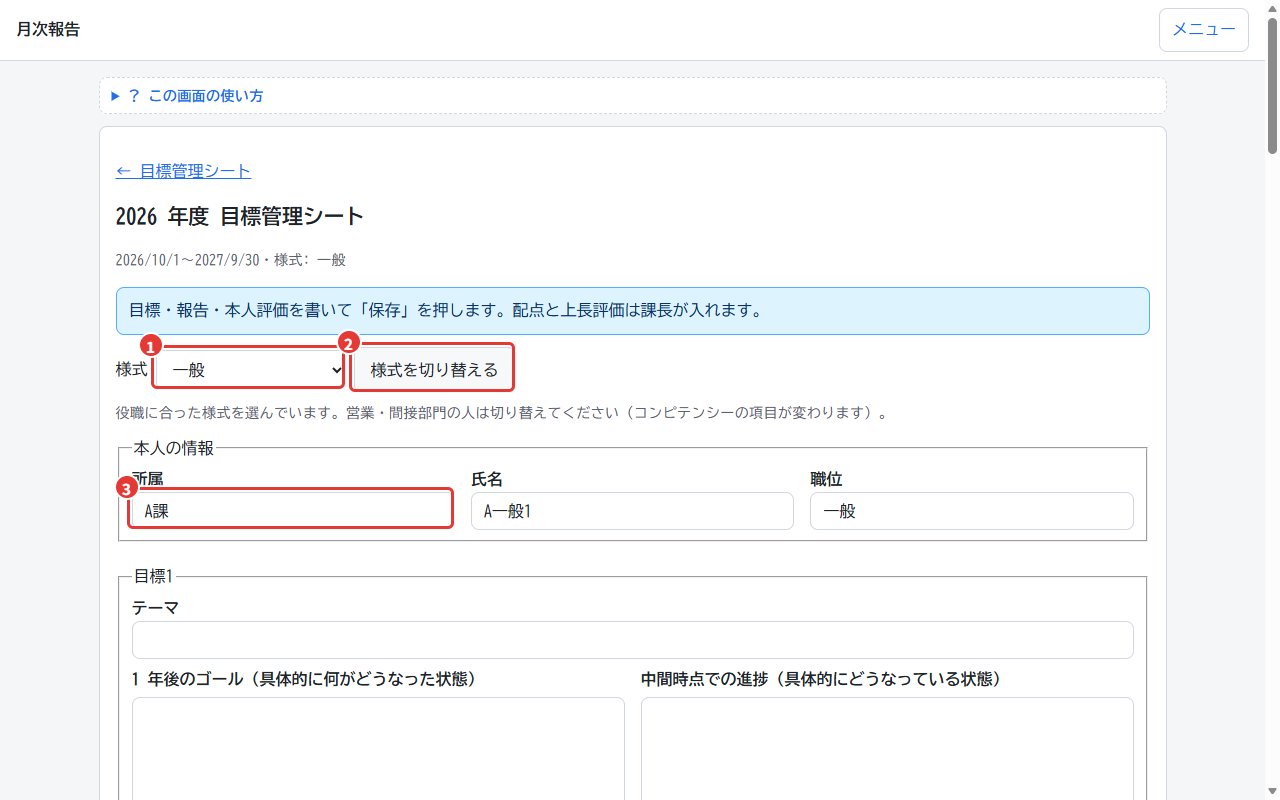
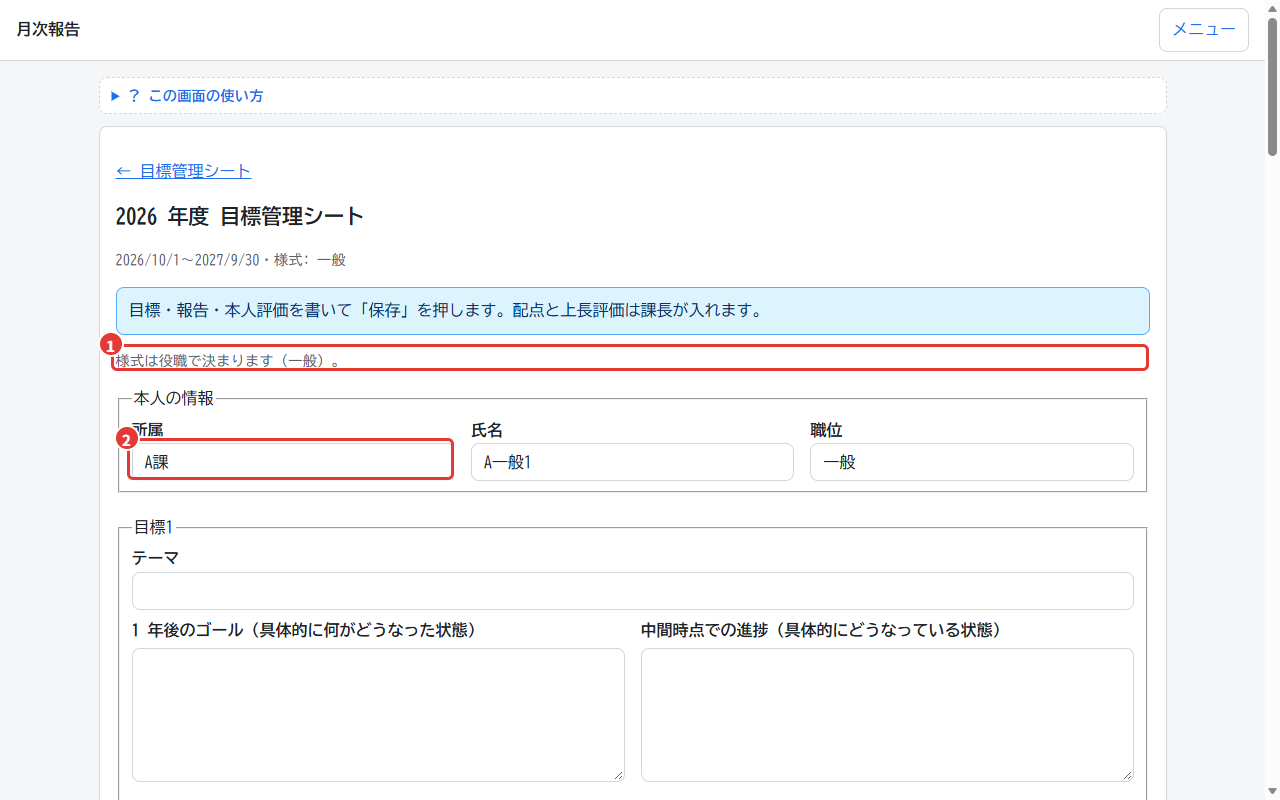
目標管理の様式を役職で決めるようにした（一般・主任・課長代理は選べない。課長・部長は課長以上・営業・間接部門から選ぶ）

Changed region(s): [[0.0625, 0.4062, 0.9062, 0.875], [0.5, 0.75, 0.7812, 0.875]]

diff --git a/app/lib/messages_catalog.php b/app/lib/messages_catalog.php
@@ -318,12 +318,13 @@ return [
     '総務の様式に、保存した内容を入れたファイルです。' => ['screens' => ['G-26 通勤定期代の精算']],
     '通勤定期代の精算書を作って、総務の様式の Excel（.xlsx）で受け取ります。精算書を見られるのは自分だけです。月次報告とは別の機能で、承認の流れはありません。' => ['screens' => ['G-26 通勤定期代の精算']],
     'このシートは読めません（暗号の鍵が変わった可能性があります）。システム管理者に連絡してください。' => ['screens' => ['G-27 目標管理']],
+    'この様式は選べません（様式は役職で決まります）。' => ['screens' => ['G-27 目標管理']],
     'コメント' => ['screens' => ['G-27 目標管理']],
     'コメントはまだありません。' => ['screens' => ['G-27 目標管理']],
     '個別の面談で話したこと（直すこと・確かめたこと）を、課長・課長代理が残します。本人も読めます。あとから直したり消したりできません。' => ['screens' => ['G-27 目標管理']],
-    '役職に合った様式を選んでいます。営業・間接部門の人は切り替えてください（コンピテンシーの項目が変わります）。' => ['screens' => ['G-27 目標管理']],
     '本人・課長・課長代理が書けます。書いたコメントは、あとから直したり消したりできません（監査のため）。直したいことは、新しく書いてください。' => ['screens' => ['G-27 目標管理']],
     '様式の欄: {lines} 行・1 行 {width} 字ほど' => ['screens' => ['G-27 目標管理']],
+    '様式は役職で決まります（{kind}）。' => ['screens' => ['G-27 目標管理']],
     '目標・報告・本人評価を書いて「保存」を押します。配点と上長評価は課長が入れます。' => ['screens' => ['G-27 目標管理']],
     '目標管理シートのファイルは PC で受け取ってください。' => ['screens' => ['G-27 目標管理']],
     '目標管理シートはまだありません。' => ['screens' => ['G-27 目標管理']],
@@ -333,6 +334,7 @@ return [
     '評価を保存しました' => ['screens' => ['G-27 目標管理']],
     '課長として、配点・上長評価・総合評価を入れて「評価を保存」を押します。本人が書いた欄は直せません（直してほしいことは、コメントか面談で伝えてください）。' => ['screens' => ['G-27 目標管理']],
     '課長代理として、見てコメントできます（評価は課長が入れます）。面談をしたら、記録を残してください。' => ['screens' => ['G-27 目標管理']],
+    '課長以上の様式を選んでいます。営業・間接部門の人は切り替えてください（コンピテンシーの項目が変わります）。' => ['screens' => ['G-27 目標管理']],
     '達成率（実績 ÷ 計画）と評点（120% を超える：5／110% 以上：4／100% 以上：3／95% 以上：2／85% 以上：1／それ未満：0）は、様式の式で計算します。' => ['screens' => ['G-27 目標管理']],
     '面談の日を正しく入れてください（今日より先の日は入れられません）' => ['screens' => ['G-27 目標管理']],
     '面談の記録' => ['screens' => ['G-27 目標管理']],

diff --git a/tools/test/smoke_goals.py b/tools/test/smoke_goals.py
@@ -95,6 +95,12 @@ def main():
     check("一般の人には、一般の様式を選んでいる（コンピテンシー 16 項目）", 'name="kind" value="general"' in page_html
           and len(re.findall(r'name="competency_self\[\d+\]"', page_html)) == GENERAL_ITEM_COUNT, status_code)
     check("本人の画面では、配点・上長評価は入れられない", 'name="goals[0][difficulty]"' not in page_html and 'name="overall_boss"' not in page_html)
+    check("一般の人には様式を選ぶ欄を出さない（様式は役職で決まる）", 'id="goal-kind"' not in page_html and "様式は役職で決まります" in page_html)
+    _, _, other_kind_html = owner.get("/goals/edit.php?year=%d&kind=manager" % fiscal_year)
+    check("一般の人が URL で別の様式を指定しても、一般の様式のまま", 'name="kind" value="general"' in other_kind_html)
+    forged_status, _, _ = owner.post("/goals/edit.php?year=%d" % fiscal_year, owner_form(other_kind_html, kind="manager"))
+    check("一般の人が別の様式を送っても受け付けない（403）", forged_status == 403, forged_status)
+    _, _, page_html = owner.get("/goals/edit.php?year=%d" % fiscal_year)
     status_code, _, error_html = owner.post("/goals/edit.php?year=%d" % fiscal_year, owner_form(page_html, **{"goals[0][goal]": "あ" * 300}))
     check("様式の欄に収まらない長さは保存しない（行の数を出す）", status_code == 200 and "長すぎます" in error_html and "7 行" in error_html, status_code)
     status_code, location, _ = owner.post("/goals/edit.php?year=%d" % fiscal_year, owner_form(
@@ -175,6 +181,8 @@ def main():
     other_status, _, _ = client_of("leader_a").get("/goals/edit.php?id=%d" % deputy_sheet_id)
     check("課長代理のシートは課長が見られる（主任は見られない）", deputy_sheet_id > 0 and view_status == 200 and other_status == 404, (deputy_sheet_id, view_status, other_status))
     _, _, page_html = client_of("kacho_a").get("/goals/edit.php?year=%d&kind=manager" % fiscal_year)
+    check("課長は、課長以上・営業・間接部門から様式を選べる（一般・リーダーは選べない）", 'id="goal-kind"' in page_html
+          and all('value="%s"' % kind_code in page_html for kind_code in ("manager", "sales", "indirect")) and '<option value="general"' not in page_html)
     status_code, location, _ = client_of("kacho_a").post("/goals/edit.php?year=%d&kind=manager" % fiscal_year, dict(owner_form(page_html), full_name="A課長", position="課長"))
     manager_sheet_id = int(re.search(r"id=(\d+)", location).group(1)) if "id=" in location else 0
     deputy_view_status, _, _ = client_of("dairi_a").get("/goals/edit.php?id=%d" % manager_sheet_id)

diff --git a/app/views/goal_edit.php b/app/views/goal_edit.php
@@ -59,16 +59,19 @@ $roleNoteByViewerRole = [
   <?php if (!$isNewSheet && !$isMobile): ?>
     <p><a class="button" href="<?= h(url('/goals/download.php?id=' . $sheet['id'])) ?>">会社の様式の Excel を受け取る（.xlsx）</a></p>
   <?php endif; ?>
-  <?php if ($isNewSheet): ?>
+  <?php $selectableKindList = goal_selectable_kinds($user); ?>
+  <?php if ($isNewSheet && count($selectableKindList) > 1): ?>
     <form method="get" action="<?= h(url('/goals/edit.php')) ?>" class="filters">
       <input type="hidden" name="year" value="<?= (int) $sheet['fiscal_year'] ?>">
       <label for="goal-kind">様式</label>
       <select id="goal-kind" name="kind">
-        <?php foreach (GOAL_TEMPLATE_KINDS as $kindCode => $kindItem): ?><option value="<?= h($kindCode) ?>" <?= $kindCode === $sheet['kind'] ? 'selected' : '' ?>><?= h($kindItem['label']) ?></option><?php endforeach; ?>
+        <?php foreach ($selectableKindList as $kindCode): ?><option value="<?= h($kindCode) ?>" <?= $kindCode === $sheet['kind'] ? 'selected' : '' ?>><?= h(GOAL_TEMPLATE_KINDS[$kindCode]['label']) ?></option><?php endforeach; ?>
       </select>
       <button type="submit">様式を切り替える</button>
-      <span class="note"><?= h(msg('役職に合った様式を選んでいます。営業・間接部門の人は切り替えてください（コンピテンシーの項目が変わります）。')) ?></span>
+      <span class="note"><?= h(msg('課長以上の様式を選んでいます。営業・間接部門の人は切り替えてください（コンピテンシーの項目が変わります）。')) ?></span>
     </form>
+  <?php elseif ($isNewSheet): ?>
+    <p class="note"><?= h(msg('様式は役職で決まります（{kind}）。', ['kind' => GOAL_TEMPLATE_KINDS[$sheet['kind']]['label']])) ?></p>
   <?php endif; ?>
 
   <form method="post" action="<?= h(url($sheetPath)) ?>" class="form goal-form"<?= ($isOwner || $isBoss) ? ' data-leave-warn="1"' : '' ?>>

diff --git a/app/pages/goal_edit.php b/app/pages/goal_edit.php
@@ -34,7 +34,7 @@ if (isset($_GET['id']) || isset($_POST['sheet_id'])) {
         error_page(404);
     }
     $requestedKind = (string) ($_POST['kind'] ?? ($_GET['kind'] ?? goal_default_kind($user)));
-    $kindCode = isset(GOAL_TEMPLATE_KINDS[$requestedKind]) ? $requestedKind : goal_default_kind($user);
+    $kindCode = in_array($requestedKind, goal_selectable_kinds($user), true) ? $requestedKind : goal_default_kind($user);   // 役職で選べない様式は使わない
     $sheet = ['id' => null, 'user_id' => $userId, 'fiscal_year' => $fiscalYear, 'kind' => $kindCode, 'created_at' => '', 'updated_at' => '',
               'data' => goal_new_sheet_data($user, $kindCode), 'unreadable' => false];
     $viewerRole = 'owner';
@@ -56,7 +56,10 @@ if (is_post()) {
         $kindCode = $sheet['kind'];
         if ($action === 'save_owner' && $sheet['id'] === null) {
             $postedKind = post_str('kind');
-            $kindCode = isset(GOAL_TEMPLATE_KINDS[$postedKind]) ? $postedKind : $kindCode;
+            if (!in_array($postedKind, goal_selectable_kinds($user), true)) {
+                error_page(403, msg('この様式は選べません（様式は役職で決まります）。'));
+            }
+            $kindCode = $postedKind;
             $postedData = goal_normalize($postedData, $kindCode);
         }
         $errorTextList = goal_validate($postedData);

diff --git a/app/lib/goal.php b/app/lib/goal.php
@@ -50,17 +50,28 @@ function goal_creatable_years(): array
     return [$currentYear, $currentYear + 1];
 }
 
-/** 役職から選ぶ様式の種類（本人が作るときに変えられる） */
-function goal_default_kind(array $user): string
+/**
+ * 役職で選べる様式の種類（1 つ目が既定）。一般は一般だけ、主任・課長代理はリーダー・課長代理だけで、選び直せない。
+ * 課長・部長は、課長以上・営業・間接部門から選ぶ（営業・間接部門の様式は、課長以上の様式のファイルにだけあるため）
+ *
+ * @return string[]
+ */
+function goal_selectable_kinds(array $user): array
 {
     $roleTitle = (string) ($user['role_title'] ?? '');
     if ($roleTitle === '課長' || $roleTitle === '部長') {
-        return 'manager';
+        return ['manager', 'sales', 'indirect'];
     }
     if ($roleTitle === '課長代理' || $roleTitle === '主任') {
-        return 'leader';
+        return ['leader'];
     }
-    return 'general';
+    return ['general'];
+}
+
+/** 役職から決まる既定の様式の種類 */
+function goal_default_kind(array $user): string
+{
+    return goal_selectable_kinds($user)[0];
 }
 
 /** 空の目標 1 つ */

diff --git a/tools/lib/manual_capture.py b/tools/lib/manual_capture.py
@@ -582,7 +582,7 @@ def capture_all(camera, php_path, environment, database_path):
         camera.goto("/goals/index.php")
         camera.shoot("m14_01_list", [mark("a.button", text="年度のシートを作る", label=1)], scroll="top")
         camera.goto("/goals/edit.php?year=%d" % fiscal_year)
-        camera.shoot("m14_02_new_kind", [mark("#goal-kind", label=1), mark("button", text="様式を切り替える", label=2), mark("#department_name", label=3)], scroll="top")
+        camera.shoot("m14_02_new_kind", [mark("p.note", text="様式は役職で決まります", label=1), mark("#department_name", label=2)], scroll="top")
         browser.fill("#goal-theme-1", "障害の件数を減らす")
         browser.fill('textarea[name="goals[0][goal]"]', "担当システムの障害の件数を、前年の半分にする。\n毎月の振り返りで原因を分類し、再発防止策を決めて実行する。")
         browser.fill('textarea[name="goals[0][progress]"]', "上期の障害は 6 件（前年同期 11 件）。")

diff --git a/docs/detailed_design/G27_goals.md b/docs/detailed_design/G27_goals.md
@@ -41,10 +41,10 @@
 | 一般（`general`） | `goal_general.xlsx`「目標管理シート（一般）」 | 16 | 一般 |
 | リーダー・課長代理（`leader`） | `goal_leader.xlsx`「目標管理シート（リーダー・課代）」 | 15 | 主任・課長代理 |
 | 課長以上（`manager`） | `goal_manager.xlsx`「目標管理シート（課長以上）」 | 15 | 課長・部長 |
-| 営業（`sales`） | `goal_manager.xlsx`「目標管理シート（営業）」 | 12 | （作るときに選ぶ） |
-| 間接部門（`indirect`） | `goal_manager.xlsx`「目標管理シート（間接）」 | 12 | （作るときに選ぶ） |
+| 営業（`sales`） | `goal_manager.xlsx`「目標管理シート（営業）」 | 12 | （課長・部長が作るときに選ぶ） |
+| 間接部門（`indirect`） | `goal_manager.xlsx`「目標管理シート（間接）」 | 12 | （課長・部長が作るときに選ぶ） |
 
-- 種類は作るときに本人が選ぶ（既定は役職から）。作ったあとは変えない。
+- 種類は役職で決まる（`goal_selectable_kinds()`）。一般は「一般」、主任・課長代理は「リーダー・課長代理」だけで、選ぶ欄を出さない。課長・部長は、作るときに「課長以上」「営業」「間接部門」から選ぶ（営業・間接部門の様式は、課長以上の様式のファイルにだけあるため）。役職で選べない種類を URL で指定しても既定の種類にし、送られたら 403。作ったあとは変えない。
 - コンピテンシーの項目（大分類・中分類・行動指針）と行の位置は、様式から `tools/lib/goal_template_gen.py` で `app/lib/goal_templates.php` に書き出す（手で直さない。様式を差し替えたら流し直す。自動検証で様式と合っているか確かめる）。
 
 ### 3.2 欄と決まり
@@ -107,5 +107,6 @@
 - 見られる人（本人・課長・課長代理）と見られない人（同じ課の人・主任・ほかの課の課長・管理者・補佐）。課長のシートは本人だけ、課長代理のシートは課長が見る
 - 本人と課長が入れられる欄の分け方（相手の欄を送っても変わらない）、課長代理は評価を保存できない
 - 様式の欄に収まらない長さ、同じ年度のシートは 1 つ、面談の日
+- 様式は役職で決まる（一般には選ぶ欄を出さない・URL で別の様式を指定しても変わらない・送っても 403。課長は 3 つから選べる）
 - コメント・返信・面談の記録、消す操作がない、更新の履歴、暗号化
 - 評点の計算、xlsx（値の入るセル・行に分けた文・目標 2 の位置・式の値・業績目標・開くシート・様式のほかの部分がそのまま）、スマートフォンでは受け取れない

diff --git a/docs/operation_manual.md b/docs/operation_manual.md
@@ -1049,10 +1049,10 @@ LibreOffice Calc でそのまま開けます。「ダウンロード」フォル
 
 1. メニューの見出し「目標管理」の「目標管理シート」を開き、「＋ （年度） 年度のシートを作る」（図の 1）を押す。次の年度の目標を早めに書くときは、次の年度のボタンを押します。
 
-![シートを作る画面。1 様式、2 様式を切り替える、3 本人の情報](manual/images/m14_02_new_kind.png)
+![シートを作る画面。1 様式（役職で決まる）、2 本人の情報](manual/images/m14_02_new_kind.png)
 
-2. 様式（図の 1）を確かめる。役職に合った様式（一般／リーダー・課長代理／課長以上）が選ばれています。営業・間接部門の人は選び直して「様式を切り替える」（図の 2）を押します（コンピテンシーの項目が変わります）。様式は、保存したあとは変えられません。
-3. 所属・氏名・職位（図の 3）を確かめる。課長以上・営業の様式では、業績目標の計画と実績（千円）も入れます。
+2. 様式（図の 1）は役職で決まります。一般の人は「一般」、主任・課長代理は「リーダー・課長代理」の様式で、選び直せません。課長・部長だけは、この場所に様式を選ぶ欄が出るので、営業・間接部門の人は選び直して「様式を切り替える」を押します（コンピテンシーの項目が変わります）。様式は、保存したあとは変えられません。
+3. 所属・氏名・職位（図の 2）を確かめる。課長以上・営業の様式では、業績目標の計画と実績（千円）も入れます。
 
 ![目標の欄。1 テーマ、2 1 年後のゴール、3 中間時点での進捗](manual/images/m14_03_goal_owner.png)
 
